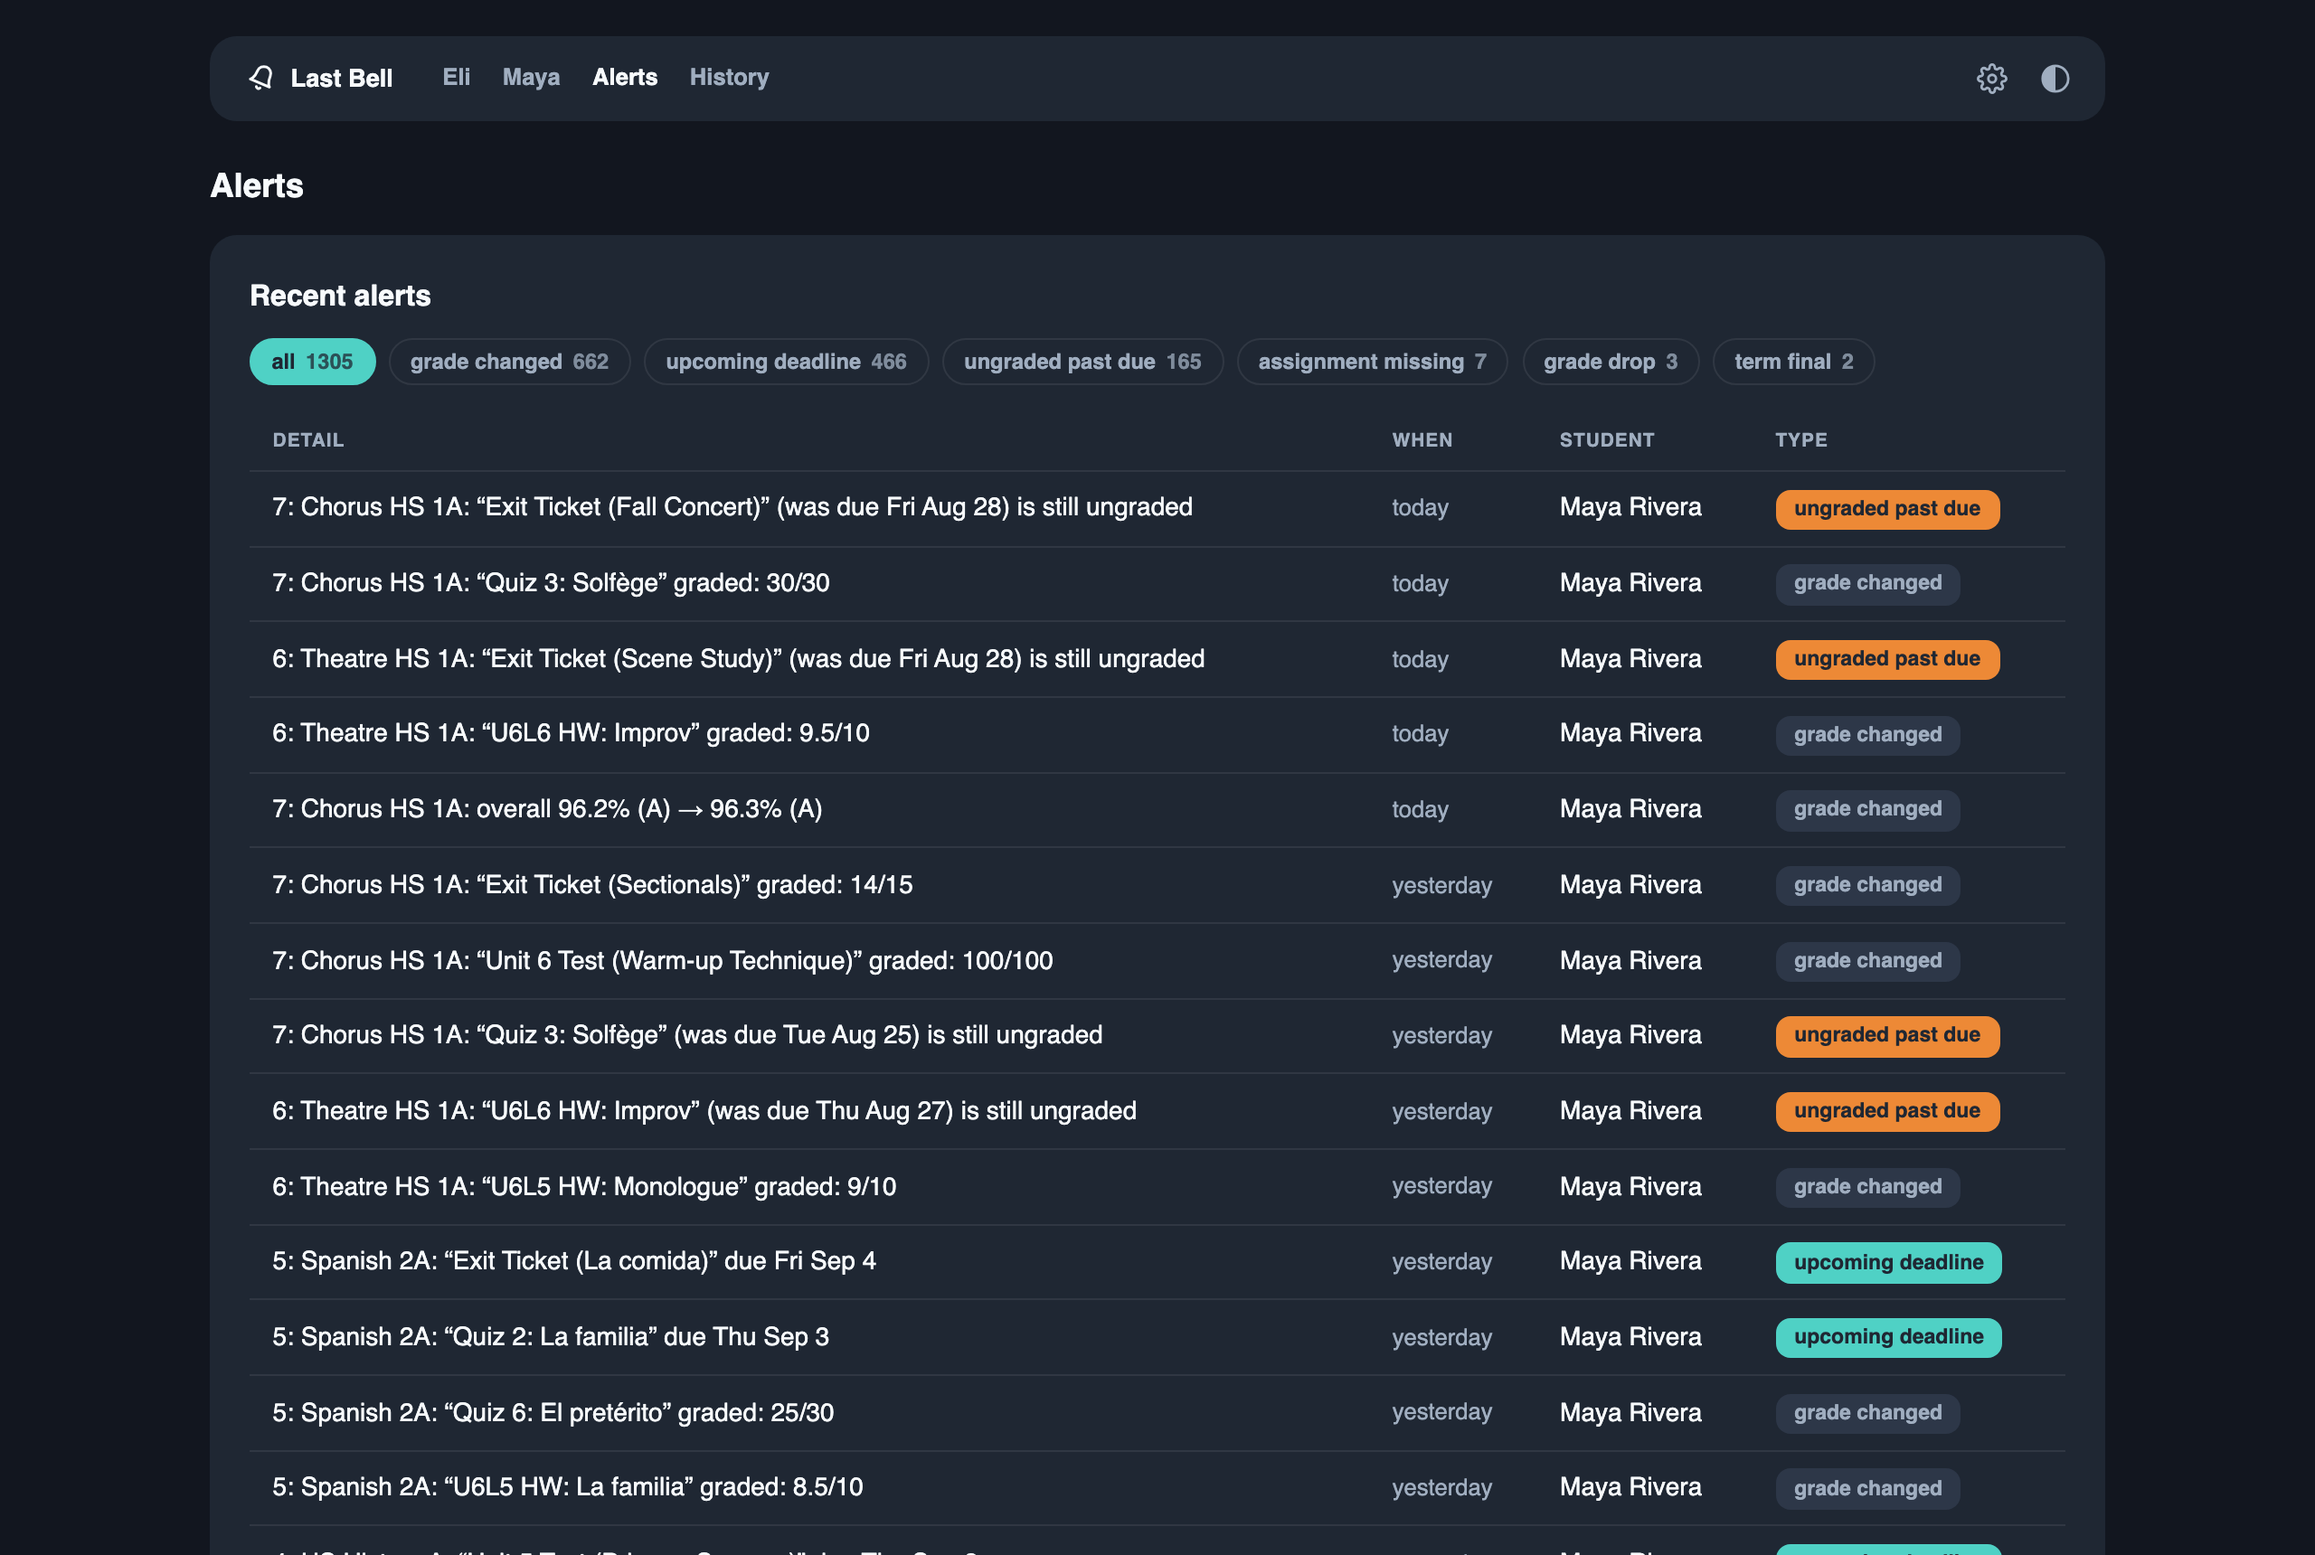
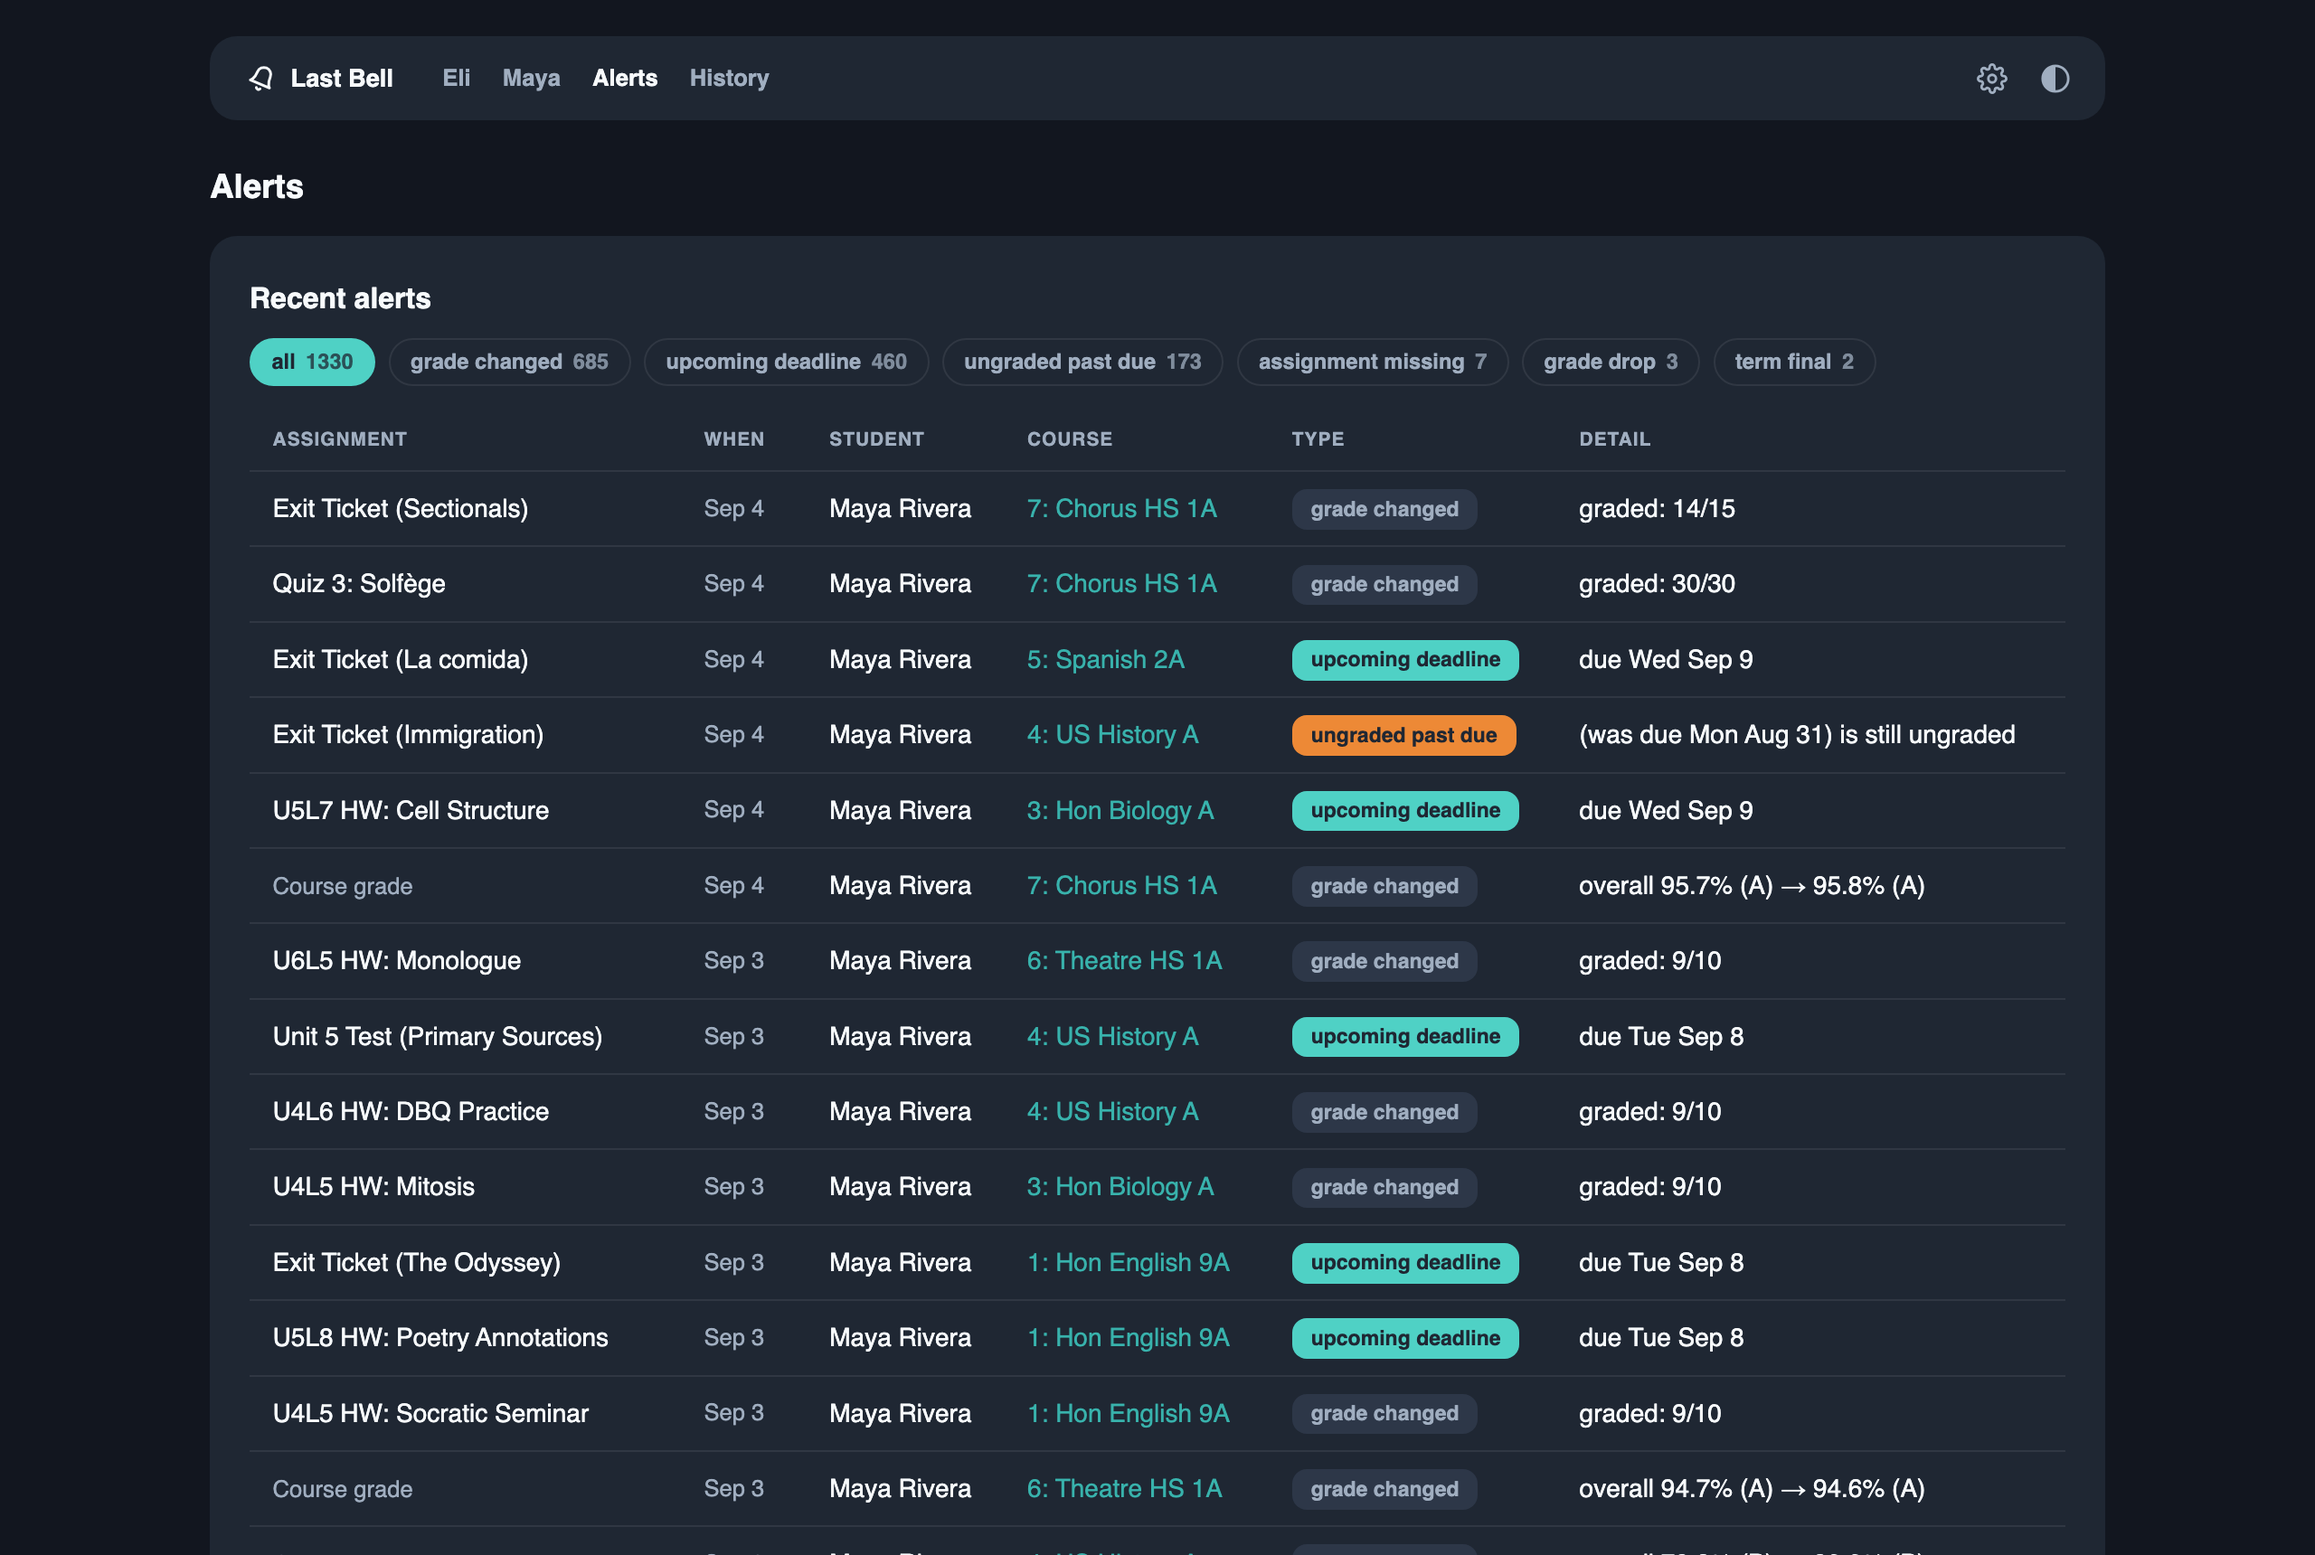
Release 0.3.2: the Alerts page in History's columns, a stable Message-ID so a Gmail false rejection does not double a digest

diff --git a/lastbell/__init__.py b/lastbell/__init__.py
@@ -4,4 +4,4 @@ Not affiliated with Edupoint. Talks to the PXP2 web portal on your behalf,
 using your own credentials, to watch your own students' gradebooks.
 """
 
-__version__ = "0.3.1"
+__version__ = "0.3.2"

diff --git a/CHANGELOG.md b/CHANGELOG.md
@@ -4,7 +4,10 @@ Plain-words notes for each release. The heading's version is what
 `release.yml` looks up to fill the GitHub Release page, so keep the
 `## <version> — <date>` shape.
 
-## Unreleased
+## 0.3.2 — 2026-09-10
+
+**The Alerts page reads like History, and a Gmail hiccup no longer
+doubles a digest.**
 
 - **The Alerts page reads like History.** Same columns: the assignment
   leads, the course is its own cell and opens the student page scoped to
@@ -19,6 +22,9 @@ Plain-words notes for each release. The heading's version is what
   and daily summaries now carry a Message-ID of their own that stays the
   same across a retry, so the mailbox keeps one copy. A real failure still
   retries as before.
+
+Nothing changes on disk; upgrade with `lastbell upgrade` or
+`docker compose pull && docker compose up -d`.
 
 ## 0.3.1 — 2026-09-08
 
